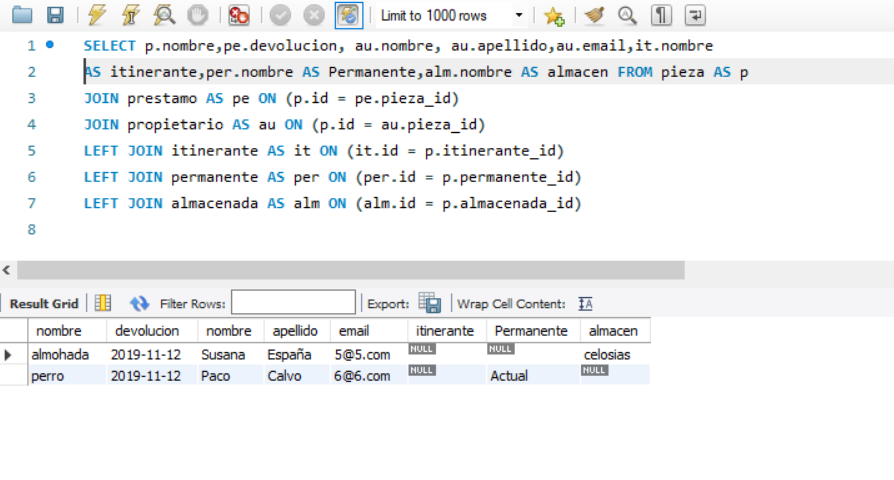
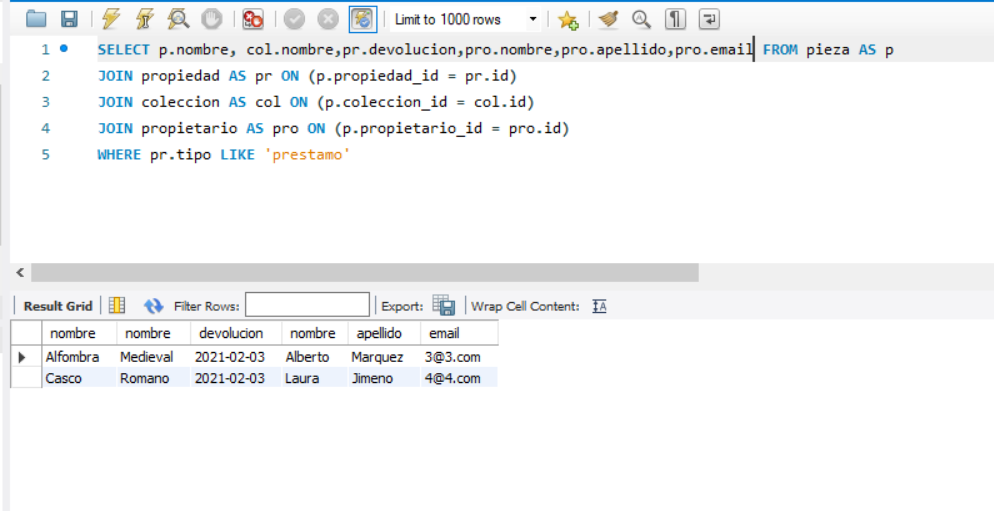
Actualización

diff --git a/dia3/museo.js b/dia3/museo.js
@@ -4,38 +4,34 @@ let connection = mysql.createConnection(
         host : "localhost",
         user : "root",
         password : "Jose@12.",
-        database : "codenotch"
+        database : "museo"
     }
 );
 
 let sql="";
 
 
-arr=[];
-sql = "SELECT p.nombre,pe.devolucion, au.nombre, au.apellido,au.email,it.nombre "+
-        "AS itinerante,per.nombre AS Permanente,alm.nombre AS almacen FROM pieza AS p "+
-        "JOIN prestamo AS pe ON (p.id = pe.pieza_id) "+
-        "JOIN propietario AS au ON (p.id = au.pieza_id) "+
-        "LEFT JOIN itinerante AS it ON (it.id = p.itinerante_id) "+
-        "LEFT JOIN permanente AS per ON (per.id = p.permanente_id) "+
-        "LEFT JOIN almacenada AS alm ON (alm.id = p.almacenada_id)";
+arr=["prestamo"];
+sql = "SELECT p.nombre,col.nombre,pr.devolucion,pro.nombre,pro.apellido,pro.email FROM pieza AS p " +
+        "JOIN propiedad AS pr ON (p.propiedad_id = pr.id) " +
+        "JOIN coleccion AS col ON (p.coleccion_id = col.id) " +
+        "JOIN propietario AS pro ON (p.propietario_id = pro.id) " +
+        "WHERE pr.tipo = ? ";
 
 connection.query(sql,[arr],function(err,result){
     if(err){
         console.log(err);
     }else{
-        console.log("Dato Insertado");
+        console.log("Busqueda realizada");
         console.log(result);
     }
 });
 
 arr=[];
-sql = "SELECT permanente_id,itinerante_id,almacenada_id,COUNT(*) AS contador FROM pieza AS p " +
-"LEFT JOIN itinerante AS it ON (it.id = p.itinerante_id) " +
-"LEFT JOIN permanente AS per ON (per.id = p.permanente_id) " +
-"LEFT JOIN almacenada AS alm ON (alm.id = p.almacenada_id) " +
-"GROUP BY permanente_id, itinerante_id,almacenada_id " +
-"ORDER BY contador DESC";
+sql = "SELECT c.nombre,COUNT(*) AS cantidad FROM pieza AS p " +
+        "JOIN coleccion AS c ON (p.coleccion_id = c.id) " +
+        "GROUP BY c.tipo " +
+        "ORDER BY cantidad DESC";
         
 connection.query(sql,[arr],function(err,result){
     if(err){
